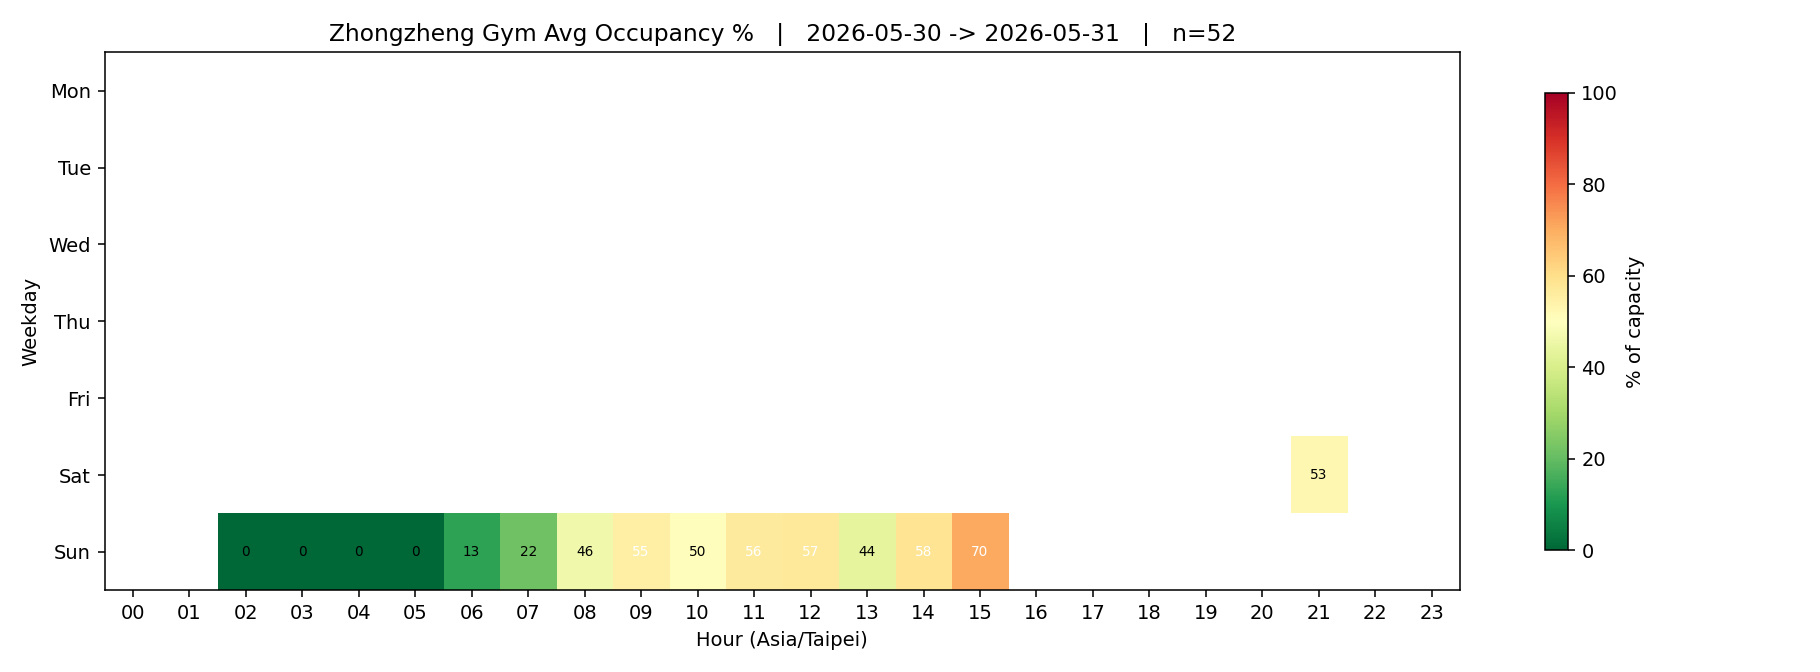
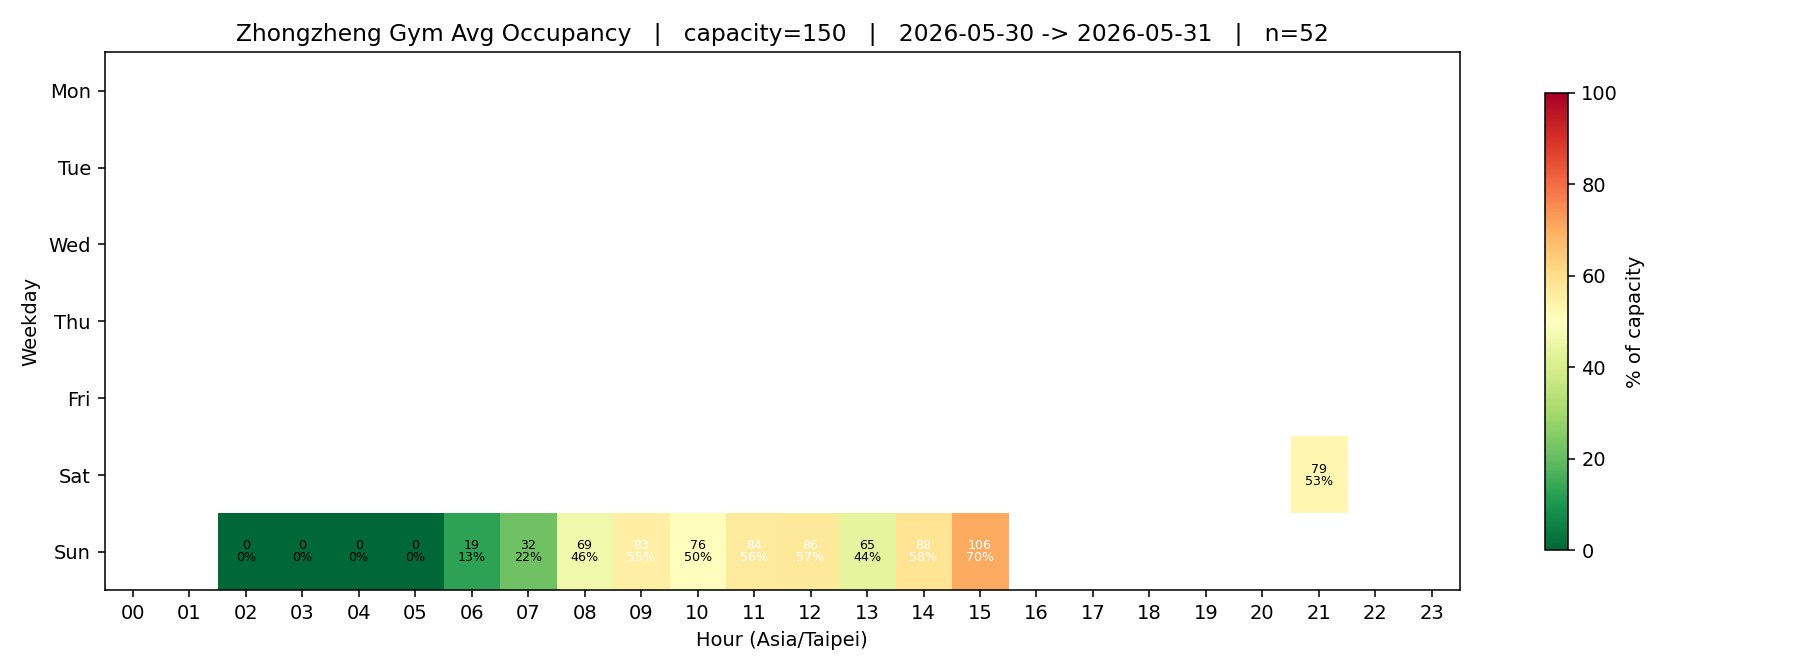
report: add headcount to heatmap cells & summary
Each cell now shows 'N人 / N%' (count above, % below).
Title labels capacity. summary.md gains 平均人數 column.

Changed region(s): [[0.1231, 0.0312, 0.7385, 0.0625], [0.2462, 0.8125, 0.5538, 0.8438], [0.7077, 0.6875, 0.7385, 0.7188]]

diff --git a/report.py b/report.py
@@ -33,13 +33,18 @@ def main() -> int:
 
     df["pct"] = df["gym_count"] / df["gym_capacity"] * 100
 
-    pivot = (
+    pct_pivot = (
         df.pivot_table(index="weekday", columns="hour", values="pct", aggfunc="mean")
         .reindex(index=range(7), columns=range(24))
     )
+    count_pivot = (
+        df.pivot_table(index="weekday", columns="hour", values="gym_count", aggfunc="mean")
+        .reindex(index=range(7), columns=range(24))
+    )
+    capacity = int(df["gym_capacity"].mode().iat[0])
 
     fig, ax = plt.subplots(figsize=(13, 4.8))
-    im = ax.imshow(pivot, aspect="auto", cmap="RdYlGn_r", vmin=0, vmax=100)
+    im = ax.imshow(pct_pivot, aspect="auto", cmap="RdYlGn_r", vmin=0, vmax=100)
 
     ax.set_xticks(range(24))
     ax.set_xticklabels([f"{h:02d}" for h in range(24)])
@@ -51,17 +56,19 @@ def main() -> int:
     span = f"{df['ts_local'].min()[:10]} -> {df['ts_local'].max()[:10]}"
     n_readings = len(df)
     ax.set_title(
-        f"Zhongzheng Gym Avg Occupancy %   |   {span}   |   n={n_readings}"
+        f"Zhongzheng Gym Avg Occupancy   |   capacity={capacity}   |   {span}   |   n={n_readings}"
     )
 
     for i in range(7):
         for j in range(24):
-            v = pivot.iloc[i, j]
+            v = pct_pivot.iloc[i, j]
+            c = count_pivot.iloc[i, j]
             if pd.notna(v):
                 ax.text(
-                    j, i, f"{v:.0f}",
+                    j, i, f"{c:.0f}\n{v:.0f}%",
                     ha="center", va="center",
-                    fontsize=7,
+                    fontsize=6.5,
+                    linespacing=0.9,
                     color="black" if v < 55 else "white",
                 )
 
@@ -74,9 +81,12 @@ def main() -> int:
     fig.savefig(REPORT_DIR / f"heatmap-{today}.png", dpi=140)
     plt.close(fig)
 
-    flat = pivot.stack().reset_index()
+    flat = pct_pivot.stack().reset_index()
     flat.columns = ["weekday", "hour", "pct"]
     flat = flat.dropna(subset=["pct"])
+    flat["count"] = flat.apply(
+        lambda r: count_pivot.loc[r["weekday"], r["hour"]], axis=1
+    )
     flat["slot"] = (
         flat["weekday"].map(dict(enumerate(WEEKDAY_LABELS)))
         + " "
@@ -88,26 +98,26 @@ def main() -> int:
     md = [
         "# 中正運動中心健身房 報告",
         "",
-        f"資料區間: `{span}`, 共 **{n_readings}** 筆觀測",
+        f"資料區間: `{span}`, 共 **{n_readings}** 筆觀測，capacity = **{capacity}** 人",
         "",
         "![heatmap](heatmap-latest.png)",
         "",
         "## 最空的時段 (top 10)",
         "",
-        "| 時段 | 平均使用率 |",
-        "|---|---|",
+        "| 時段 | 平均人數 | 使用率 |",
+        "|---|---:|---:|",
     ]
     for _, r in flat.head(10).iterrows():
-        md.append(f"| {r['slot']} | {r['pct']:.0f}% |")
+        md.append(f"| {r['slot']} | {r['count']:.0f} 人 | {r['pct']:.0f}% |")
     md += [
         "",
         "## 最擠的時段 (top 10)",
         "",
-        "| 時段 | 平均使用率 |",
-        "|---|---|",
+        "| 時段 | 平均人數 | 使用率 |",
+        "|---|---:|---:|",
     ]
     for _, r in flat.tail(10).iloc[::-1].iterrows():
-        md.append(f"| {r['slot']} | {r['pct']:.0f}% |")
+        md.append(f"| {r['slot']} | {r['count']:.0f} 人 | {r['pct']:.0f}% |")
 
     (REPORT_DIR / "summary.md").write_text("\n".join(md), encoding="utf-8")
 

diff --git a/reports/summary.md b/reports/summary.md
@@ -1,35 +1,35 @@
 # 中正運動中心健身房 報告
 
-資料區間: `2026-05-30 -> 2026-05-31`, 共 **52** 筆觀測
+資料區間: `2026-05-30 -> 2026-05-31`, 共 **52** 筆觀測，capacity = **150** 人
 
 ![heatmap](heatmap-latest.png)
 
 ## 最空的時段 (top 10)
 
-| 時段 | 平均使用率 |
-|---|---|
-| Sun 02:00 | 0% |
-| Sun 03:00 | 0% |
-| Sun 04:00 | 0% |
-| Sun 05:00 | 0% |
-| Sun 06:00 | 13% |
-| Sun 07:00 | 22% |
-| Sun 13:00 | 44% |
-| Sun 08:00 | 46% |
-| Sun 10:00 | 50% |
-| Sat 21:00 | 53% |
+| 時段 | 平均人數 | 使用率 |
+|---|---:|---:|
+| Sun 02:00 | 0 人 | 0% |
+| Sun 03:00 | 0 人 | 0% |
+| Sun 04:00 | 0 人 | 0% |
+| Sun 05:00 | 0 人 | 0% |
+| Sun 06:00 | 19 人 | 13% |
+| Sun 07:00 | 32 人 | 22% |
+| Sun 13:00 | 65 人 | 44% |
+| Sun 08:00 | 69 人 | 46% |
+| Sun 10:00 | 76 人 | 50% |
+| Sat 21:00 | 79 人 | 53% |
 
 ## 最擠的時段 (top 10)
 
-| 時段 | 平均使用率 |
-|---|---|
-| Sun 15:00 | 70% |
-| Sun 14:00 | 58% |
-| Sun 12:00 | 57% |
-| Sun 11:00 | 56% |
-| Sun 09:00 | 55% |
-| Sat 21:00 | 53% |
-| Sun 10:00 | 50% |
-| Sun 08:00 | 46% |
-| Sun 13:00 | 44% |
-| Sun 07:00 | 22% |
+| 時段 | 平均人數 | 使用率 |
+|---|---:|---:|
+| Sun 15:00 | 106 人 | 70% |
+| Sun 14:00 | 88 人 | 58% |
+| Sun 12:00 | 86 人 | 57% |
+| Sun 11:00 | 84 人 | 56% |
+| Sun 09:00 | 83 人 | 55% |
+| Sat 21:00 | 79 人 | 53% |
+| Sun 10:00 | 76 人 | 50% |
+| Sun 08:00 | 69 人 | 46% |
+| Sun 13:00 | 65 人 | 44% |
+| Sun 07:00 | 32 人 | 22% |
